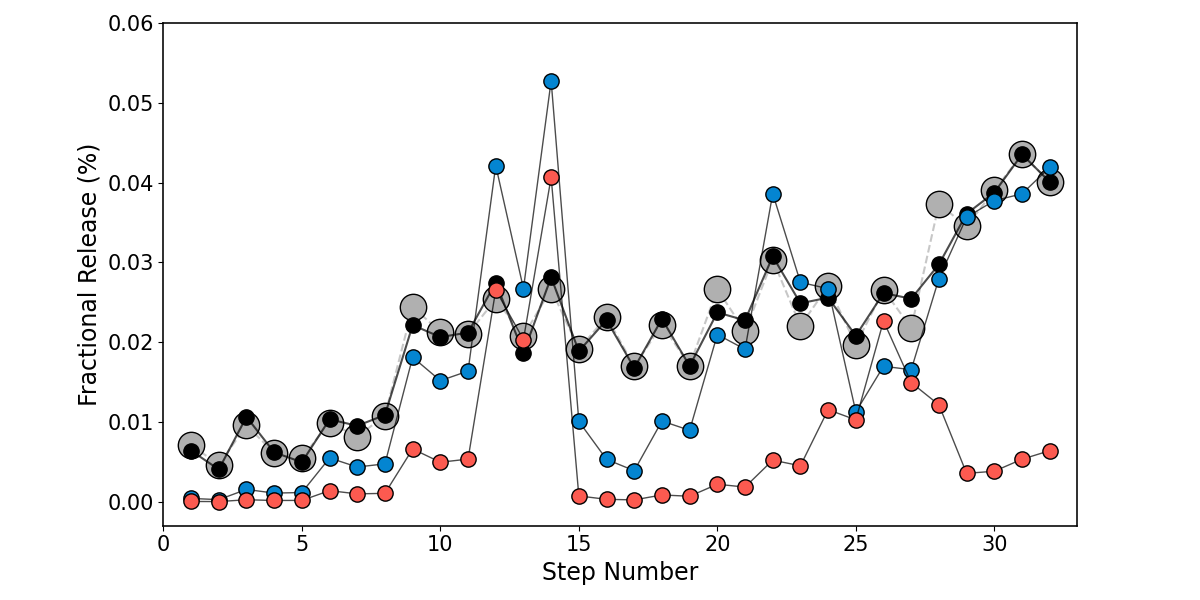
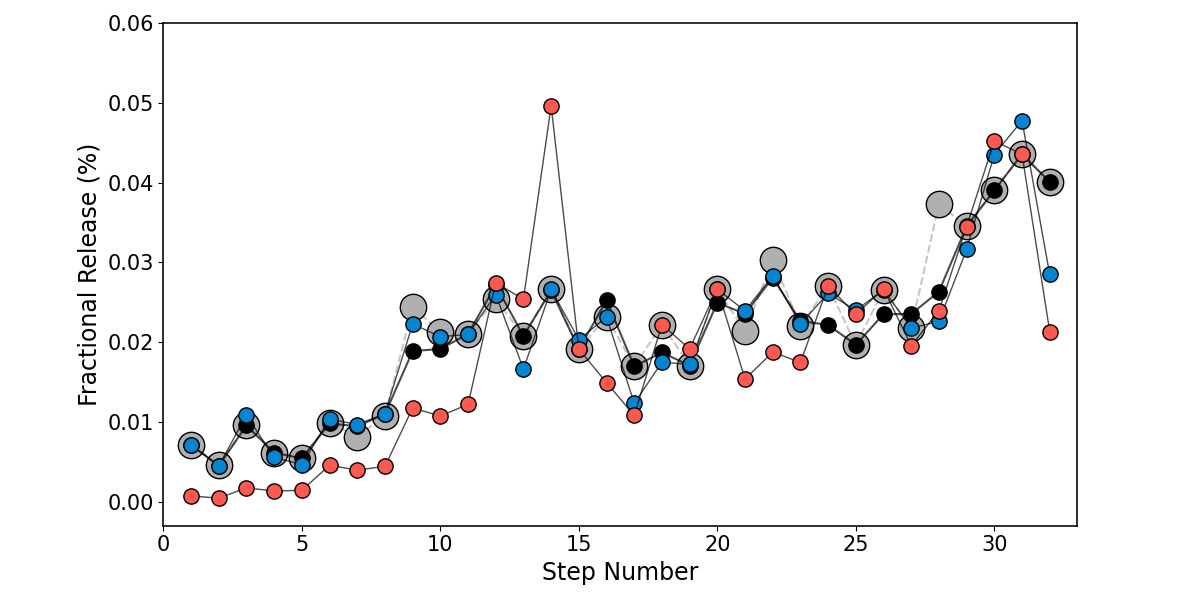
tests

diff --git a/make_schematic_fig.py b/make_schematic_fig.py
@@ -33,7 +33,7 @@ omit_value_indices = [32,33,34,35,36,37,38
 
 dataset = Dataset("diffEV", data_input)
 
-misfit_stat = "chisq"
+misfit_stat = "percent_frac"
 objective = DiffusionObjective(
     dataset,
     time_add=torch.tensor(time_add),
@@ -45,15 +45,20 @@ objective = DiffusionObjective(
 )
 
 #This is intermed fit
-params = [1.73365444341471E-13, 3.91457517581200E+02,	4.62200768821121E+01,	3.90180663316288E+01	,3.28200751498657E+01,	2.72285786410262E+01	,2.24478990017536E+01	,6.93795393437542E+00,	4.81875188588035E+00,	2.22805911996708E-01,	6.39612889665484E-02,	9.76777710994787E-02,	3.73290912608320E-02	,1.98939822739980E-01,	3.52387260186070E-01,	7.29078123887070E-02,	4.66218454753439E-02]
+#params = [1.73365444341471E-13, 3.91457517581200E+02,	4.62200768821121E+01,	3.90180663316288E+01	,3.28200751498657E+01,	2.72285786410262E+01	,2.24478990017536E+01	,6.93795393437542E+00,	4.81875188588035E+00,	2.22805911996708E-01,	6.39612889665484E-02,	9.76777710994787E-02,	3.73290912608320E-02	,1.98939822739980E-01,	3.52387260186070E-01,	7.29078123887070E-02,	4.66218454753439E-02]
+
+
+# Make sure to use N-1 fracs!!!!! 
 
 #this is worst fit
-params1 = [1.7332814404239300E-13,	4.3625792437162800E+02,	4.4997453203737200E+01	,3.1475697831619500E+01	,2.6398255152334900E+01	,2.3432882901589000E+01,	6.0129005083099300E+00	,1.2571071326723400E+00,	-2.0987599849879600E+00	,-4.9711348074793700E+00,	1.0908137802291900E-01,	8.2590722138495200E-02	,3.3571556280807300E-02	,6.6995688948818400E-02	,1.0530161409535700E-01	,8.1538266974763000E-02,	4.8281472849321400E-01]
+params1 = [276.8360188264220,	25.0868819859355,	24.4041357417651	,20.8990508198321	,17.6671143566956	,14.7389151926685	,14.3776773240279	,5.9881858668040,	2.9194899655467	,0.1568201275456,	0.0019571592320,	0.0841725466878	,0.0981516867250,	0.0721740436146,	0.1725759809668,	0.1976235282603]
+
+#This is intermed fit, I think.
+params10_iters = [230.290622709577,	26.327385651117,	21.015745449276,	18.679331547448	,15.065841559187,	13.010631658533	,10.211035249724	,2.482505065417,	2.087547257785	,0.014665588062,	0.099446175834,	0.096338366591	,0.088812808103,	0.108319243751	,0.253980352358	,0.153865709566	]	
 
 
-params10_iters = [1.73336650623617000E-13,	3.42087428806585000E+02	,3.51324575758745000E+01,	3.31484130208239000E+01,	3.31071484460599000E+01,	2.53928047754213000E+01,	2.12468810034502000E+01,	1.86183556521021000E+01,	1.70519105099156000E+01,	1.11986539702648000E+01,	5.12390961839108000E-02,	9.91294756366216000E-02,	4.55179868855653000E-02	,1.38994292618785000E-01	,9.25127950152582000E-02	,7.02854519675538000E-02,	4.00602706844350000E-01]
 #This is the best fit
-params2 = [1.7335919758298300E-13,	2.3189073010813800E+02,	2.6251841848151600E+01,	2.1212999311369100E+01,	1.9360490192813100E+01,	1.7357623723095800E+01,	1.4601210564204800E+01,	1.2006746923701400E+01,	9.9090160260554200E+00,	6.1410253290117200E+00	,1.4731298071697900E-02,	9.1858194497943800E-02,	7.6978378926125000E-02,	5.3190109725817200E-02,	1.1373554232599200E-01,	1.3034019126261000E-01,	1.7098732703281100E-01]
+params2 = [203.4051170073080,	22.1030687809260,	17.0748149047615	,15.0706445401833,	11.9060986689941	,9.3202365368750	,7.5105734475051,	7.0419866850301,	-2.1777011006856	,0.0120768431131	,0.1113516525620	,0.0886579646641	,0.1193161196527,	0.1273228207440	,0.0664113825405	,0.1781775180193]
 
 
 
@@ -71,5 +76,5 @@ plot_results_schematic(
 
 
 
-print(params)
+
 

diff --git a/utils/plot_results_schematic.py b/utils/plot_results_schematic.py
@@ -67,7 +67,7 @@ def plot_results_schematic(
                                      geometry = objective.geometry,
                                      added_steps=objective.added_steps)
 
-    
+
     Fi_MDD2, punishmentFlag2 = forwardModelKinetics(params2,
                                                     tsec,
                                                     TC,
